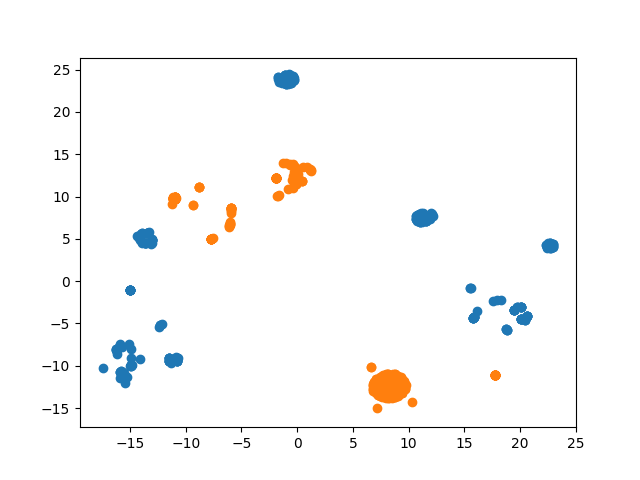
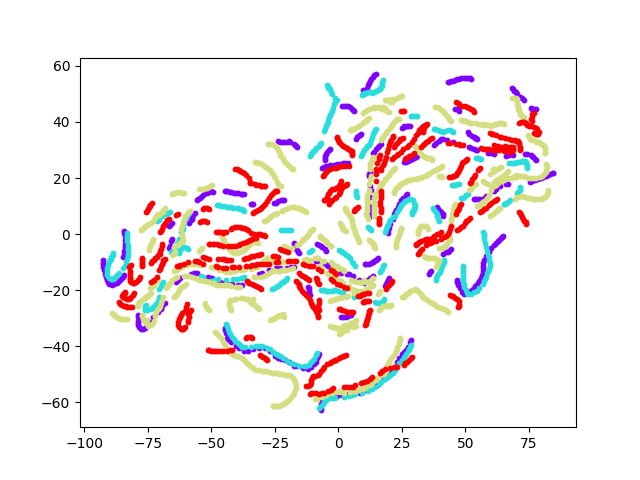
Fix t-SNE consistency bug (#8)
* Fix t-SNE scatterplots

* Change plot_tsne behavior when called by itself

* Update tsne.png

* Differentiate color in t-SNE

* Update t-SNE plot

* Manually add colors for t-SNE

* Update t-SNE plot

* Fix wrong parameter name

* Update t-SNE plot

* Update t-SNE plot

* Specify color for t-SNE

* Fix bug where embeds were not populated

* Update t-SNE plot

* Do cumulative sum of sizes for indices

* Fix list addition for numpy lists

* Try different size

* Decrease t-SNE dot size

* Update t-SNE

diff --git a/tsne.py b/tsne.py
@@ -4,6 +4,7 @@ tsne.py
 
 TODO Separate TDC, CMC, TDC+CMC
 """
+import matplotlib.cm as cm
 import matplotlib.pyplot as plt
 import numpy as np
 import torch
@@ -31,7 +32,7 @@ def get_tsne_loaders(filenames, trims, crops):
 
 
 def plot_tsne(tsne_loaders, tdc, cmc, device, save=False, log_to_wandb=True):
-
+    embeds = []
     for loader in tsne_loaders:
         embed_batches = []
         for i, batch in enumerate(loader):
@@ -42,13 +43,21 @@ def plot_tsne(tsne_loaders, tdc, cmc, device, save=False, log_to_wandb=True):
             embed_batch = F.normalize(embed_batch).cpu().detach().numpy()
             embed_batches.append(embed_batch)
         embed = np.concatenate(embed_batches, axis=0)
+        embeds.append(embed)
 
-        # Embed video frames with t-SNE
-        tsne_embed = TSNE(n_components=2).fit_transform(embed)
+    # Embed video frames with t-SNE
+    tsne_embeds = TSNE(n_components=2).fit_transform(np.concatenate(embeds, axis=0))
 
-        # Add to plot
-        xs, ys = zip(*tsne_embed)
-        plt.scatter(xs, ys)
+    # Scatterplot with different colors
+    xs, ys = zip(*tsne_embeds)
+    scatter_colors = cm.rainbow(np.linspace(0, 1, len(embeds)))
+
+    embed_sizes = [len(embed) for embed in embeds]
+    embed_indices = [0] + np.cumsum(embed_sizes).tolist()
+    for i, _ in enumerate(embed_sizes):
+        xs_part = xs[embed_indices[i] : embed_indices[i + 1]]
+        ys_part = ys[embed_indices[i] : embed_indices[i + 1]]
+        plt.scatter(xs_part, ys_part, c=[scatter_colors[i]], s=10)
 
     # Save and show completed plot
     if save:
@@ -83,4 +92,4 @@ if __name__ == "__main__":
         (20, 3, 620, 360),
     ]
     tsne_loaders = get_tsne_loaders(filenames, trims, crops)
-    plot_tsne(tsne_loaders, tdc, cmc, device)
+    plot_tsne(tsne_loaders, tdc, cmc, device, True, False)
